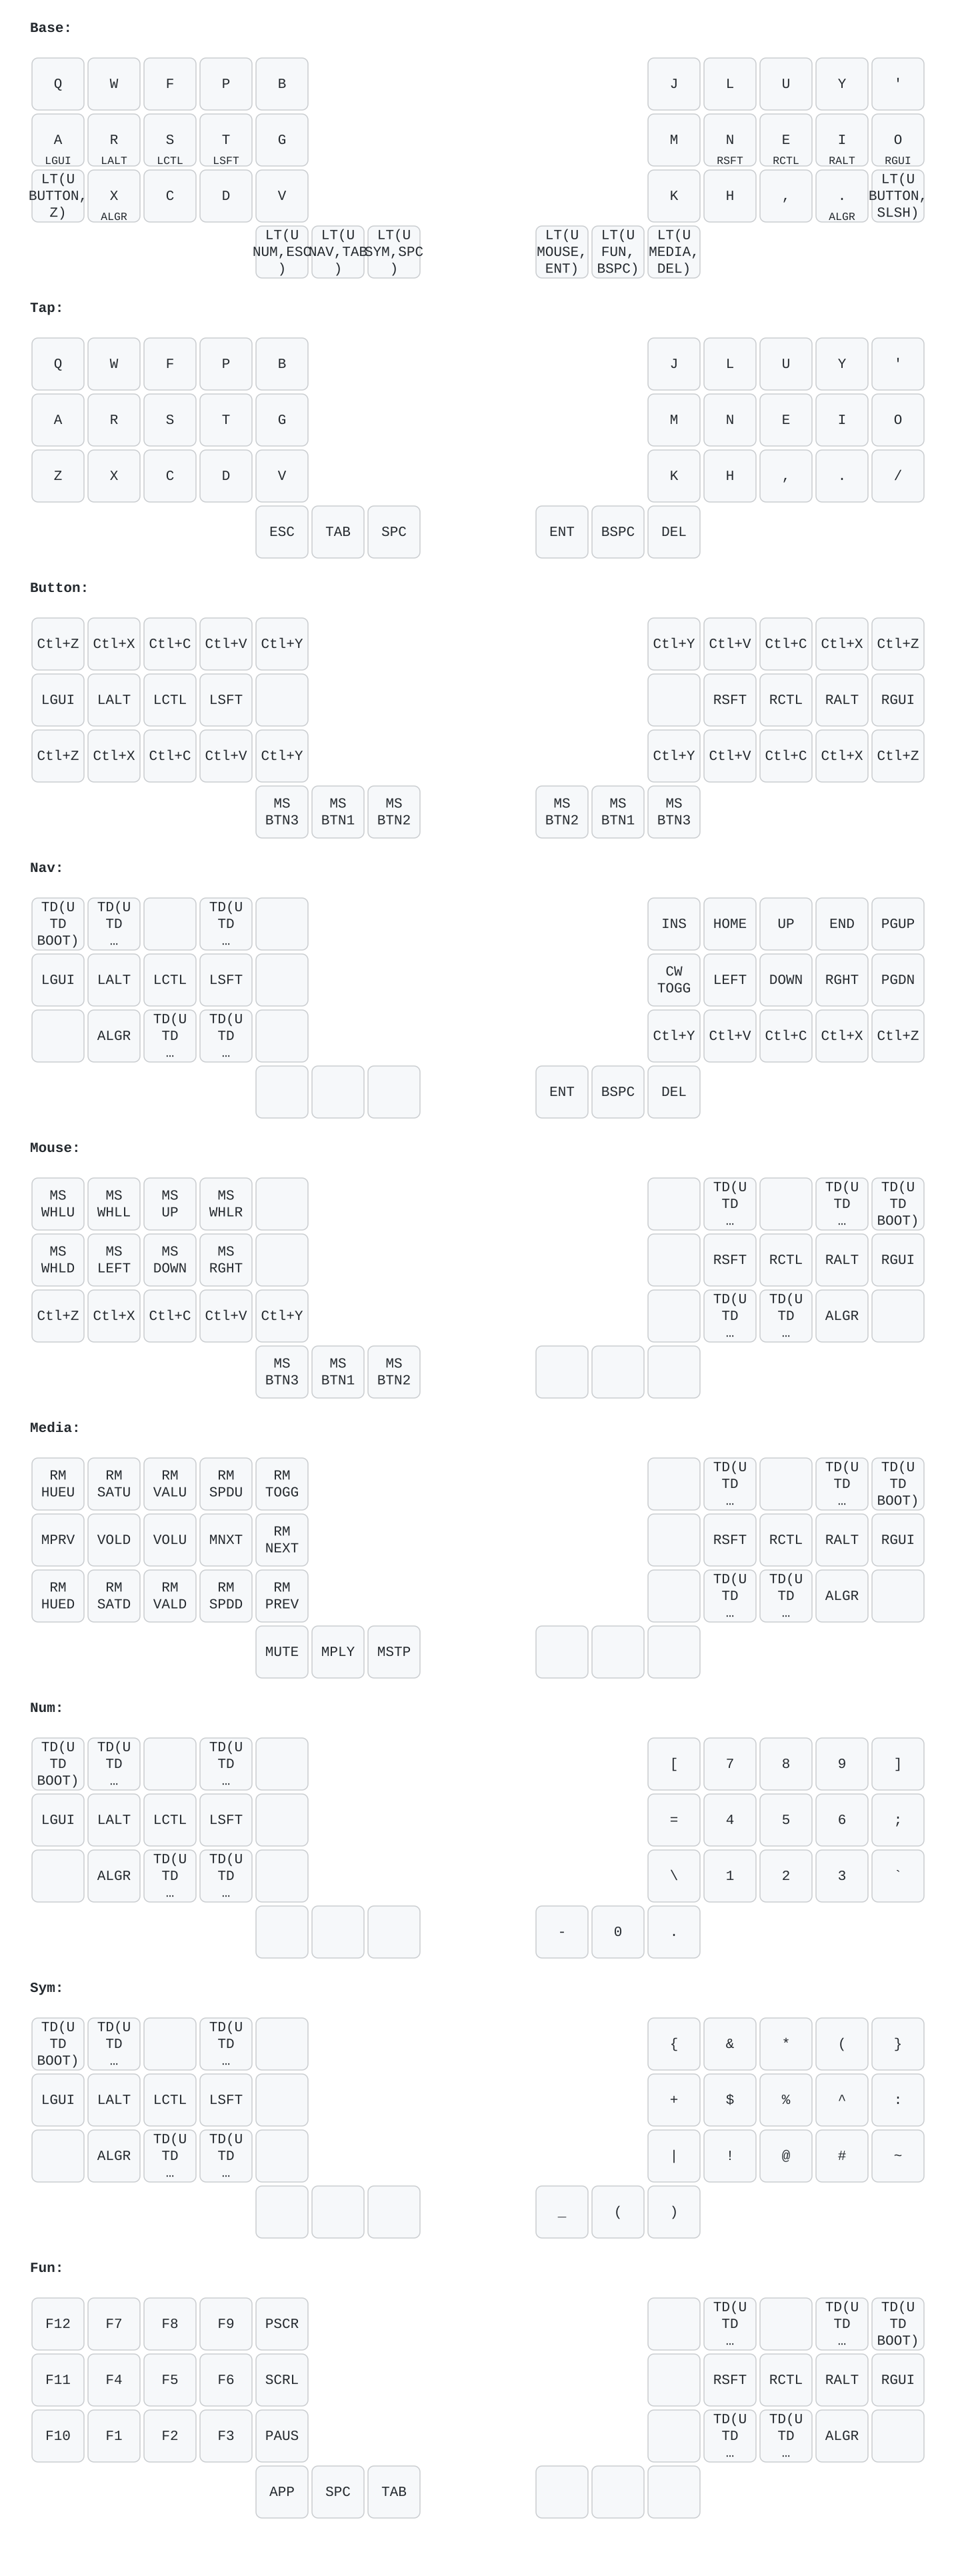
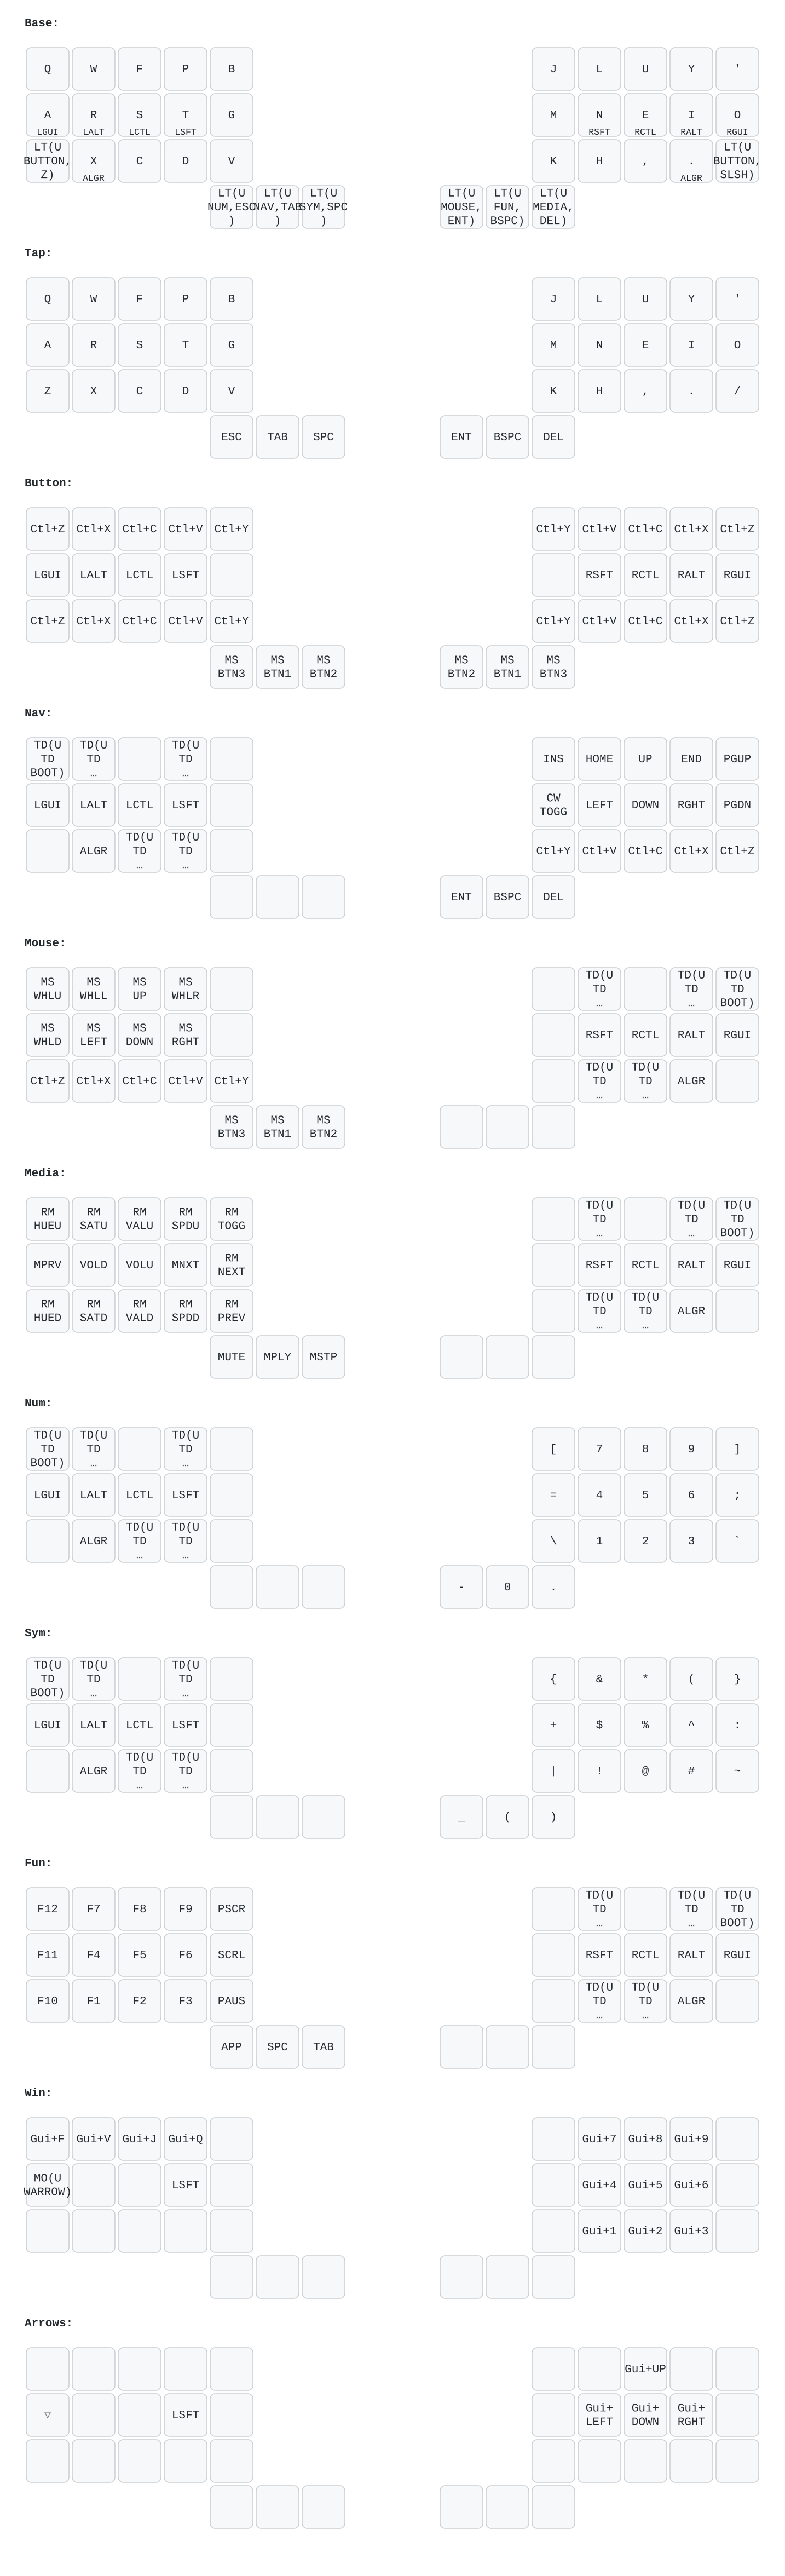
feat(barediver): add Hyprland window-control layer
Squeeze the Nav+Mouse thumbs (Tab+Enter) combo to hold a window-management
layer. Two orthogonal axes with Super baked into every action key:
- pinky flips the right hand between the workspace numpad and an arrow
  inverted-T (U_WARROW sub-layer)
- index Shift upgrades switch -> move in either target

So numpad = focus/send-to workspace (Super[+Shift]+digit), arrows = focus/move
window (Super[+Shift]+arrow), plus fullscreen/float/togglesplit/close. Baking
Super in (rather than holding it) avoids stray Super+click window drags.

Enables COMBO_ENABLE; extends the keymap-drawer label list (Win, Arrows) and
refreshes the diagram.

diff --git a/keyboards/bastardkb/skeletyl/keymaps/barediver/keymap.c b/keyboards/bastardkb/skeletyl/keymaps/barediver/keymap.c
@@ -13,6 +13,8 @@ enum layers {
     U_NUM,
     U_SYM,
     U_FUN,
+    U_WIN,
+    U_WARROW,
 };
 
 // Tap dance: double-tap a layer's "you are here" key to set it as the default
@@ -129,6 +131,43 @@ const uint16_t PROGMEM keymaps[][MATRIX_ROWS][MATRIX_COLS] = {
         KC_F10, KC_F1, KC_F2, KC_F3, KC_PAUS,            KC_NO,   TD(U_TD_U_FUN),   TD(U_TD_U_MEDIA), KC_ALGR,        KC_NO,
                        KC_APP, KC_SPC, KC_TAB,           KC_NO,   KC_NO,            KC_NO
     ),
+
+    // Hyprland window control: squeeze the Nav + Mouse thumbs (Tab + Enter) to
+    // hold it. Two orthogonal axes, with Super baked into every action key so it
+    // is never a live held modifier:
+    //   target axis  - pinky flips the right hand between the workspace numpad
+    //                  (default) and U_WARROW's arrows.
+    //   action axis  - index (Shift) upgrades "switch" to "move" in either.
+    // So, matching U_NUM's 7-8-9 / 4-5-6 / 1-2-3 numpad columns:
+    //   numpad alone           -> focus workspace            (Super+digit)
+    //   index (Shift) + numpad -> send window to workspace   (Super+Shift+digit)
+    //   pinky + arrow          -> focus window               (Super+arrow)
+    //   pinky + index + arrow  -> move window                (Super+Shift+arrow)
+    // Left top row = fullscreen / float / togglesplit / close. Release a thumb
+    // to drop back.
+    [U_WIN] = LAYOUT_split_3x5_3(
+        LGUI(KC_F),    LGUI(KC_V), LGUI(KC_J), LGUI(KC_Q), KC_NO,    KC_NO, LGUI(KC_7), LGUI(KC_8), LGUI(KC_9), KC_NO,
+        MO(U_WARROW),  KC_NO,      KC_NO,      KC_LSFT,    KC_NO,    KC_NO, LGUI(KC_4), LGUI(KC_5), LGUI(KC_6), KC_NO,
+        KC_NO,         KC_NO,      KC_NO,      KC_NO,      KC_NO,    KC_NO, LGUI(KC_1), LGUI(KC_2), LGUI(KC_3), KC_NO,
+                                   KC_NO,      KC_NO,      KC_NO,    KC_NO, KC_NO,      KC_NO
+    ),
+
+    // Arrow sub-layer for U_WIN: the right hand becomes the familiar Nav-style
+    // inverted-T with Super baked in (focus). The left index stays a plain Shift
+    // here too so adding it upgrades focus -> move regardless of press order.
+    [U_WARROW] = LAYOUT_split_3x5_3(
+        KC_NO,   KC_NO, KC_NO, KC_NO,   KC_NO,     KC_NO, KC_NO,         LGUI(KC_UP),   KC_NO,         KC_NO,
+        KC_TRNS, KC_NO, KC_NO, KC_LSFT, KC_NO,     KC_NO, LGUI(KC_LEFT), LGUI(KC_DOWN), LGUI(KC_RGHT), KC_NO,
+        KC_NO,   KC_NO, KC_NO, KC_NO,   KC_NO,     KC_NO, KC_NO,         KC_NO,         KC_NO,         KC_NO,
+                        KC_NO, KC_NO,   KC_NO,     KC_NO, KC_NO,         KC_NO
+    ),
+};
+
+// Squeeze the Nav + Mouse thumbs (Tab + Enter) to hold window mode; release to
+// return to base. Momentary, so both hands stay free for the numpad + arrows.
+const uint16_t PROGMEM win_combo[] = {LT(U_NAV, KC_TAB), LT(U_MOUSE, KC_ENT), COMBO_END};
+combo_t key_combos[] = {
+    COMBO(win_combo, MO(U_WIN)),
 };
 
 // Shift + Caps Word toggle = Caps Lock